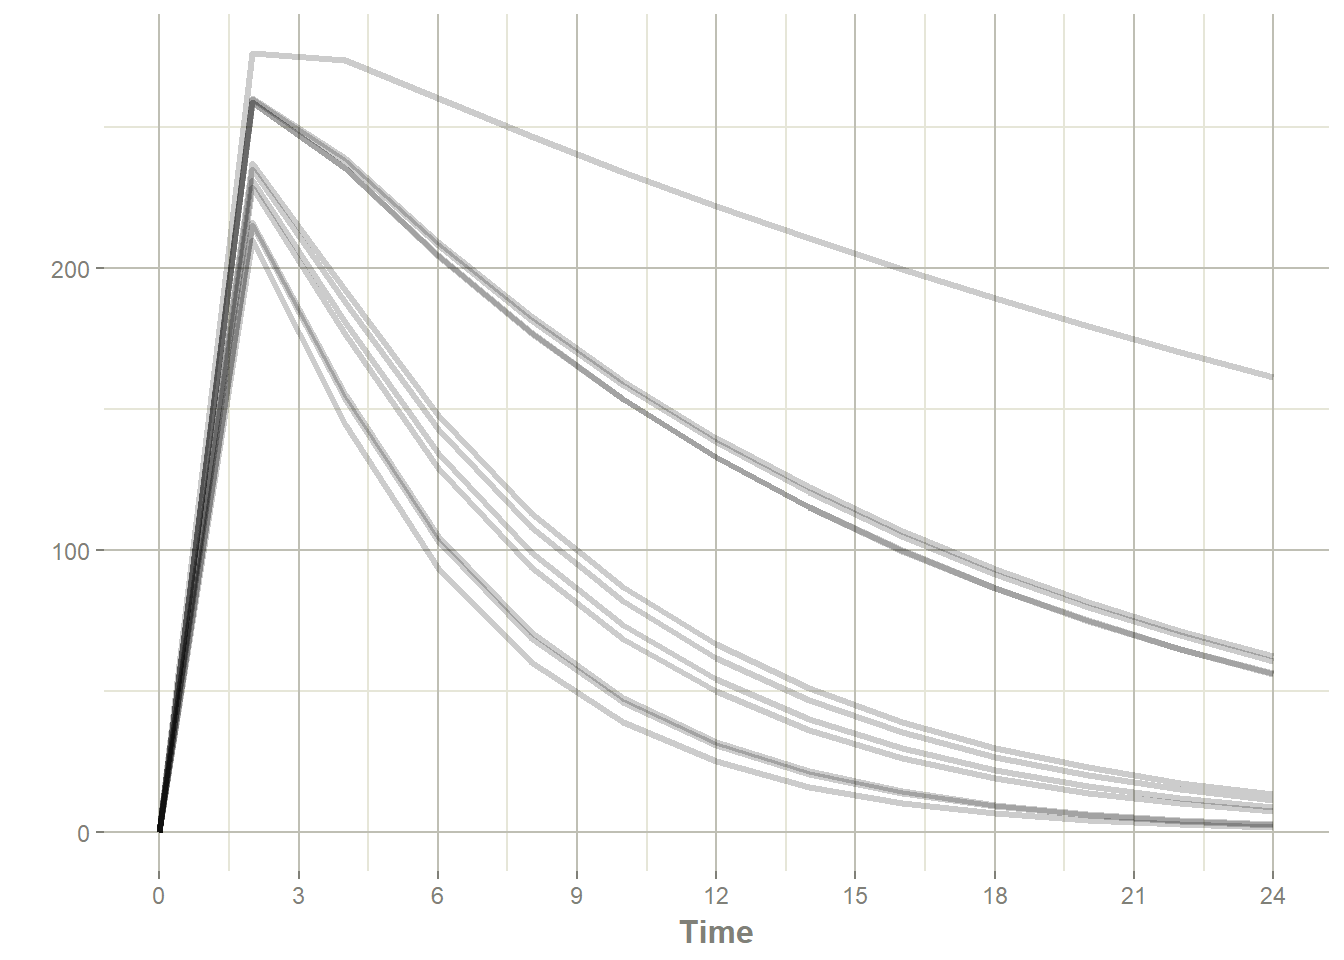
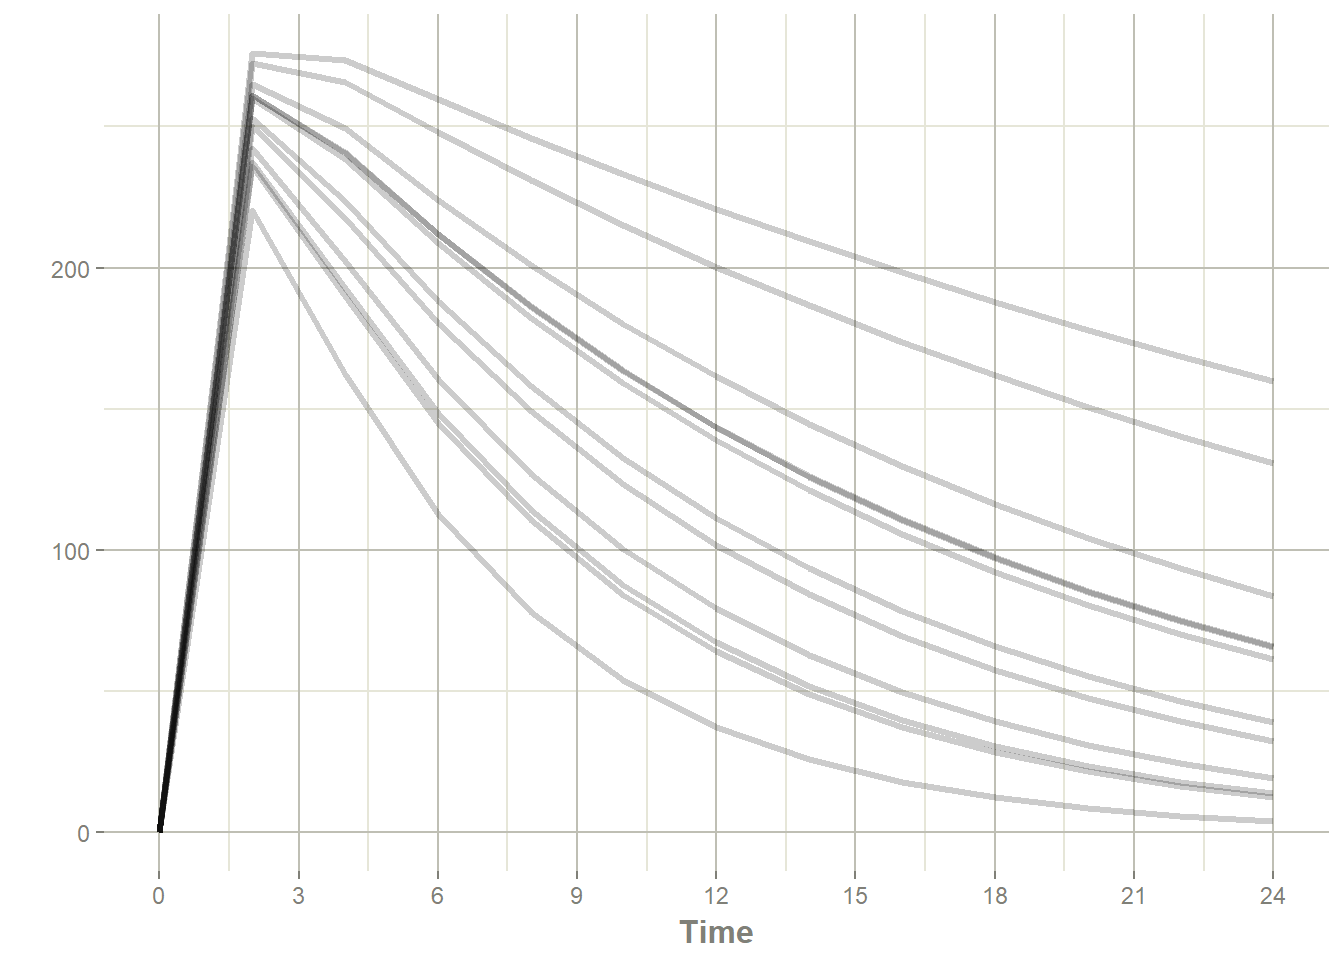
Update

diff --git a/content/blog/2022-10-12-rxode-and-rxode2/index.html b/content/blog/2022-10-12-rxode-and-rxode2/index.html
@@ -82,20 +82,20 @@ s &lt;- rxSolve(one.compartment, et)</code></pre>
 <pre><code>## ── Solved rxode2 object ──
 ## ── Parameters ($params): ──
 ## # A tibble: 12 × 8
-##    id      tka   tcl    tv add.sd  eta.ka  eta.cl   eta.v
-##    &lt;fct&gt; &lt;dbl&gt; &lt;dbl&gt; &lt;dbl&gt;  &lt;dbl&gt;   &lt;dbl&gt;   &lt;dbl&gt;   &lt;dbl&gt;
-##  1 1      0.45     1  3.45    0.7 -0.0346  0.286   0.490 
-##  2 2      0.45     1  3.45    0.7  0.619   0.298   0.411 
-##  3 3      0.45     1  3.45    0.7 -0.282  -0.688  -0.0462
-##  4 4      0.45     1  3.45    0.7  1.04   -0.185  -0.131 
-##  5 5      0.45     1  3.45    0.7 -0.247   0.946  -0.0609
-##  6 6      0.45     1  3.45    0.7 -0.409   0.232  -0.344 
-##  7 7      0.45     1  3.45    0.7 -0.326   0.306  -0.452 
-##  8 8      0.45     1  3.45    0.7 -0.951   0.131  -0.490 
-##  9 9      0.45     1  3.45    0.7  1.31    0.141   0.107 
-## 10 10     0.45     1  3.45    0.7 -1.39    0.0473  0.0123
-## 11 11     0.45     1  3.45    0.7  0.386  -0.388  -0.217 
-## 12 12     0.45     1  3.45    0.7  0.383  -0.578   0.330 
+##    id      tka   tcl    tv add.sd  eta.ka eta.cl   eta.v
+##    &lt;fct&gt; &lt;dbl&gt; &lt;dbl&gt; &lt;dbl&gt;  &lt;dbl&gt;   &lt;dbl&gt;  &lt;dbl&gt;   &lt;dbl&gt;
+##  1 1      0.45     1  3.45    0.7  0.0290  0.410  0.406 
+##  2 2      0.45     1  3.45    0.7 -0.628  -0.547 -0.198 
+##  3 3      0.45     1  3.45    0.7 -0.970  -0.688 -0.171 
+##  4 4      0.45     1  3.45    0.7  1.08   -0.168  0.354 
+##  5 5      0.45     1  3.45    0.7  0.753   0.420 -0.512 
+##  6 6      0.45     1  3.45    0.7  0.289   1.05  -0.0455
+##  7 7      0.45     1  3.45    0.7  1.10    0.160 -0.341 
+##  8 8      0.45     1  3.45    0.7 -0.456   0.433 -0.227 
+##  9 9      0.45     1  3.45    0.7 -0.347   0.163  0.0773
+## 10 10     0.45     1  3.45    0.7 -0.484  -0.374 -0.0798
+## 11 11     0.45     1  3.45    0.7 -0.746   0.319  0.510 
+## 12 12     0.45     1  3.45    0.7 -0.140  -0.634  0.343 
 ## ── Initial Conditions ($inits): ──
 ##  depot center 
 ##      0      0 
@@ -103,12 +103,12 @@ s &lt;- rxSolve(one.compartment, et)</code></pre>
 ## # A tibble: 156 × 10
 ##      id  time    ka    cl     v    cp ipredSim   sim       depot center
 ##   &lt;int&gt; &lt;dbl&gt; &lt;dbl&gt; &lt;dbl&gt; &lt;dbl&gt; &lt;dbl&gt;    &lt;dbl&gt; &lt;dbl&gt;       &lt;dbl&gt;  &lt;dbl&gt;
-## 1     1     0  1.51  3.62  51.4  0        0    0.848 300             0 
-## 2     1     2  1.51  3.62  51.4  5.02     5.02 5.34   14.5         258.
-## 3     1     4  1.51  3.62  51.4  4.60     4.60 4.87    0.700       237.
-## 4     1     6  1.51  3.62  51.4  4.01     4.01 3.70    0.0338      206.
-## 5     1     8  1.51  3.62  51.4  3.48     3.48 2.33    0.00164     179.
-## 6     1    10  1.51  3.62  51.4  3.03     3.03 2.40    0.0000790   156.
+## 1     1     0  1.61  4.10  47.3  0        0    0.437 300             0 
+## 2     1     2  1.61  4.10  47.3  5.37     5.37 4.77   11.9         254.
+## 3     1     4  1.61  4.10  47.3  4.73     4.73 4.09    0.471       224.
+## 4     1     6  1.61  4.10  47.3  3.99     3.99 5.01    0.0186      188.
+## 5     1     8  1.61  4.10  47.3  3.35     3.35 1.79    0.000738    158.
+## 6     1    10  1.61  4.10  47.3  2.82     2.82 4.19    0.0000292   133.
 ## # … with 150 more rows</code></pre>
 <pre class="r"><code>plot(s, center)</code></pre>
 <p><img src="{{< blogdown/postref >}}index_files/figure-html/simulation-1.png" width="672" /></p>
@@ -168,20 +168,20 @@ print(s)</code></pre>
 <pre><code>## ── Solved rxode2 object ──
 ## ── Parameters ($params): ──
 ## # A tibble: 12 × 7
-##    id      tka   tcl    tv add.sd  eta.cl    eta.v
-##    &lt;fct&gt; &lt;dbl&gt; &lt;dbl&gt; &lt;dbl&gt;  &lt;dbl&gt;   &lt;dbl&gt;    &lt;dbl&gt;
-##  1 1      0.45     1  3.45    0.7 -0.0853 -0.643  
-##  2 2      0.45     1  3.45    0.7 -1.04    0.136  
-##  3 3      0.45     1  3.45    0.7  0.514   0.747  
-##  4 4      0.45     1  3.45    0.7  1.01    0.187  
-##  5 5      0.45     1  3.45    0.7  0.313  -0.118  
-##  6 6      0.45     1  3.45    0.7  0.852   0.00775
-##  7 7      0.45     1  3.45    0.7 -0.377  -0.190  
-##  8 8      0.45     1  3.45    0.7  0.870  -0.0606 
-##  9 9      0.45     1  3.45    0.7 -0.446  -0.197  
-## 10 10     0.45     1  3.45    0.7  0.619   0.0127 
-## 11 11     0.45     1  3.45    0.7  0.238  -0.239  
-## 12 12     0.45     1  3.45    0.7 -0.115   0.0702 
+##    id      tka   tcl    tv add.sd  eta.cl   eta.v
+##    &lt;fct&gt; &lt;dbl&gt; &lt;dbl&gt; &lt;dbl&gt;  &lt;dbl&gt;   &lt;dbl&gt;   &lt;dbl&gt;
+##  1 1      0.45     1  3.45    0.7  0.387  -0.368 
+##  2 2      0.45     1  3.45    0.7  0.349   0.251 
+##  3 3      0.45     1  3.45    0.7 -0.354  -0.367 
+##  4 4      0.45     1  3.45    0.7 -0.271   0.187 
+##  5 5      0.45     1  3.45    0.7  0.0561 -0.367 
+##  6 6      0.45     1  3.45    0.7 -0.189   0.0942
+##  7 7      0.45     1  3.45    0.7 -0.279  -0.0396
+##  8 8      0.45     1  3.45    0.7 -0.172   0.114 
+##  9 9      0.45     1  3.45    0.7  0.503   0.197 
+## 10 10     0.45     1  3.45    0.7 -0.811   0.352 
+## 11 11     0.45     1  3.45    0.7  0.228  -0.228 
+## 12 12     0.45     1  3.45    0.7 -0.903  -0.0161
 ## ── Initial Conditions ($inits): ──
 ##  depot center 
 ##      0      0 
@@ -189,12 +189,12 @@ print(s)</code></pre>
 ## # A tibble: 156 × 10
 ##      id  time    ka    cl     v    cp ipredSim    sim       depot center
 ##   &lt;int&gt; &lt;dbl&gt; &lt;dbl&gt; &lt;dbl&gt; &lt;dbl&gt; &lt;dbl&gt;    &lt;dbl&gt;  &lt;dbl&gt;       &lt;dbl&gt;  &lt;dbl&gt;
-## 1     1     0  1.57  2.50  16.6  0        0     0.566 300            0  
-## 2     1     2  1.57  2.50  16.6 14.0     14.0  13.6    13.0        231. 
-## 3     1     4  1.57  2.50  16.6 10.9     10.9  10.2     0.566      181. 
-## 4     1     6  1.57  2.50  16.6  8.11     8.11  6.85    0.0246     134. 
-## 5     1     8  1.57  2.50  16.6  6.00     6.00  5.33    0.00107     99.4
-## 6     1    10  1.57  2.50  16.6  4.44     4.44  5.35    0.0000463   73.5
+## 1     1     0  1.57  4.00  21.8  0        0    -0.302 300            0  
+## 2     1     2  1.57  4.00  21.8 10.1     10.1   9.96   13.0        221. 
+## 3     1     4  1.57  4.00  21.8  7.45     7.45  7.41    0.566      162. 
+## 4     1     6  1.57  4.00  21.8  5.18     5.18  4.09    0.0246     113. 
+## 5     1     8  1.57  4.00  21.8  3.59     3.59  3.41    0.00107     78.2
+## 6     1    10  1.57  4.00  21.8  2.48     2.48  1.71    0.0000463   54.1
 ## # … with 150 more rows</code></pre>
 <pre class="r"><code>plot(s, center)</code></pre>
 <p><img src="{{< blogdown/postref >}}index_files/figure-html/piping-1.png" width="672" /></p>
